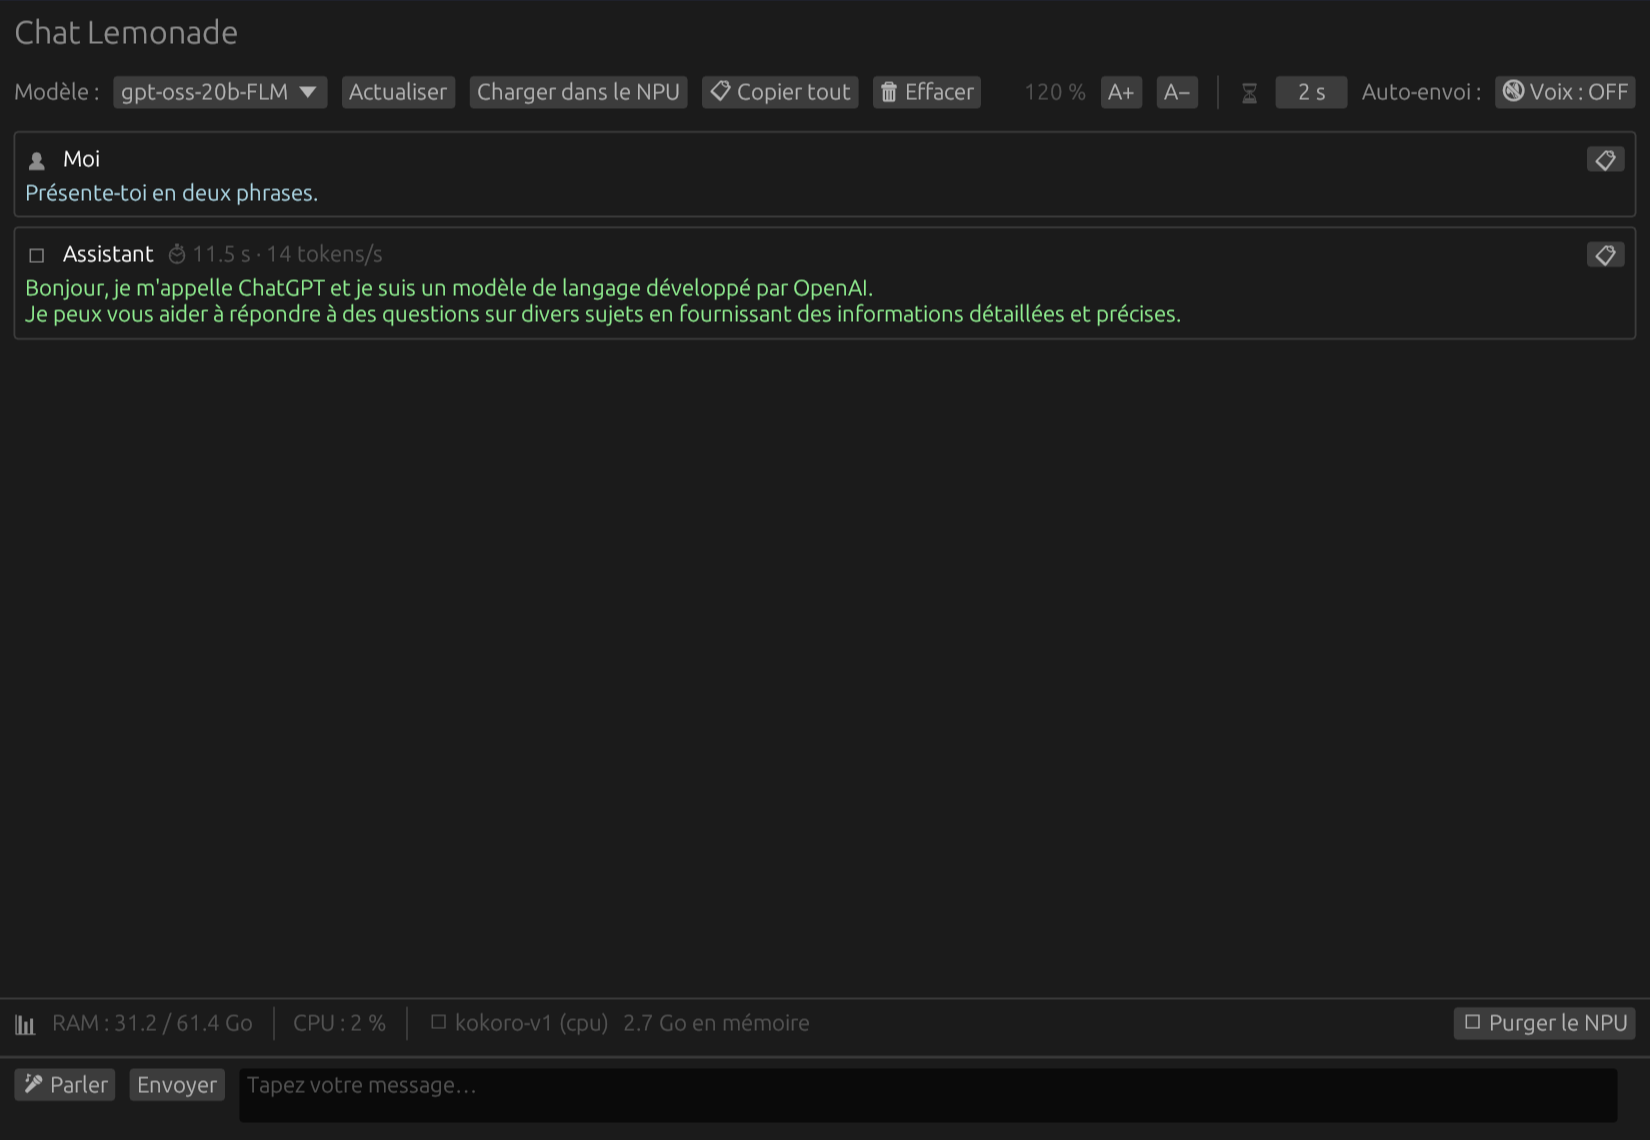
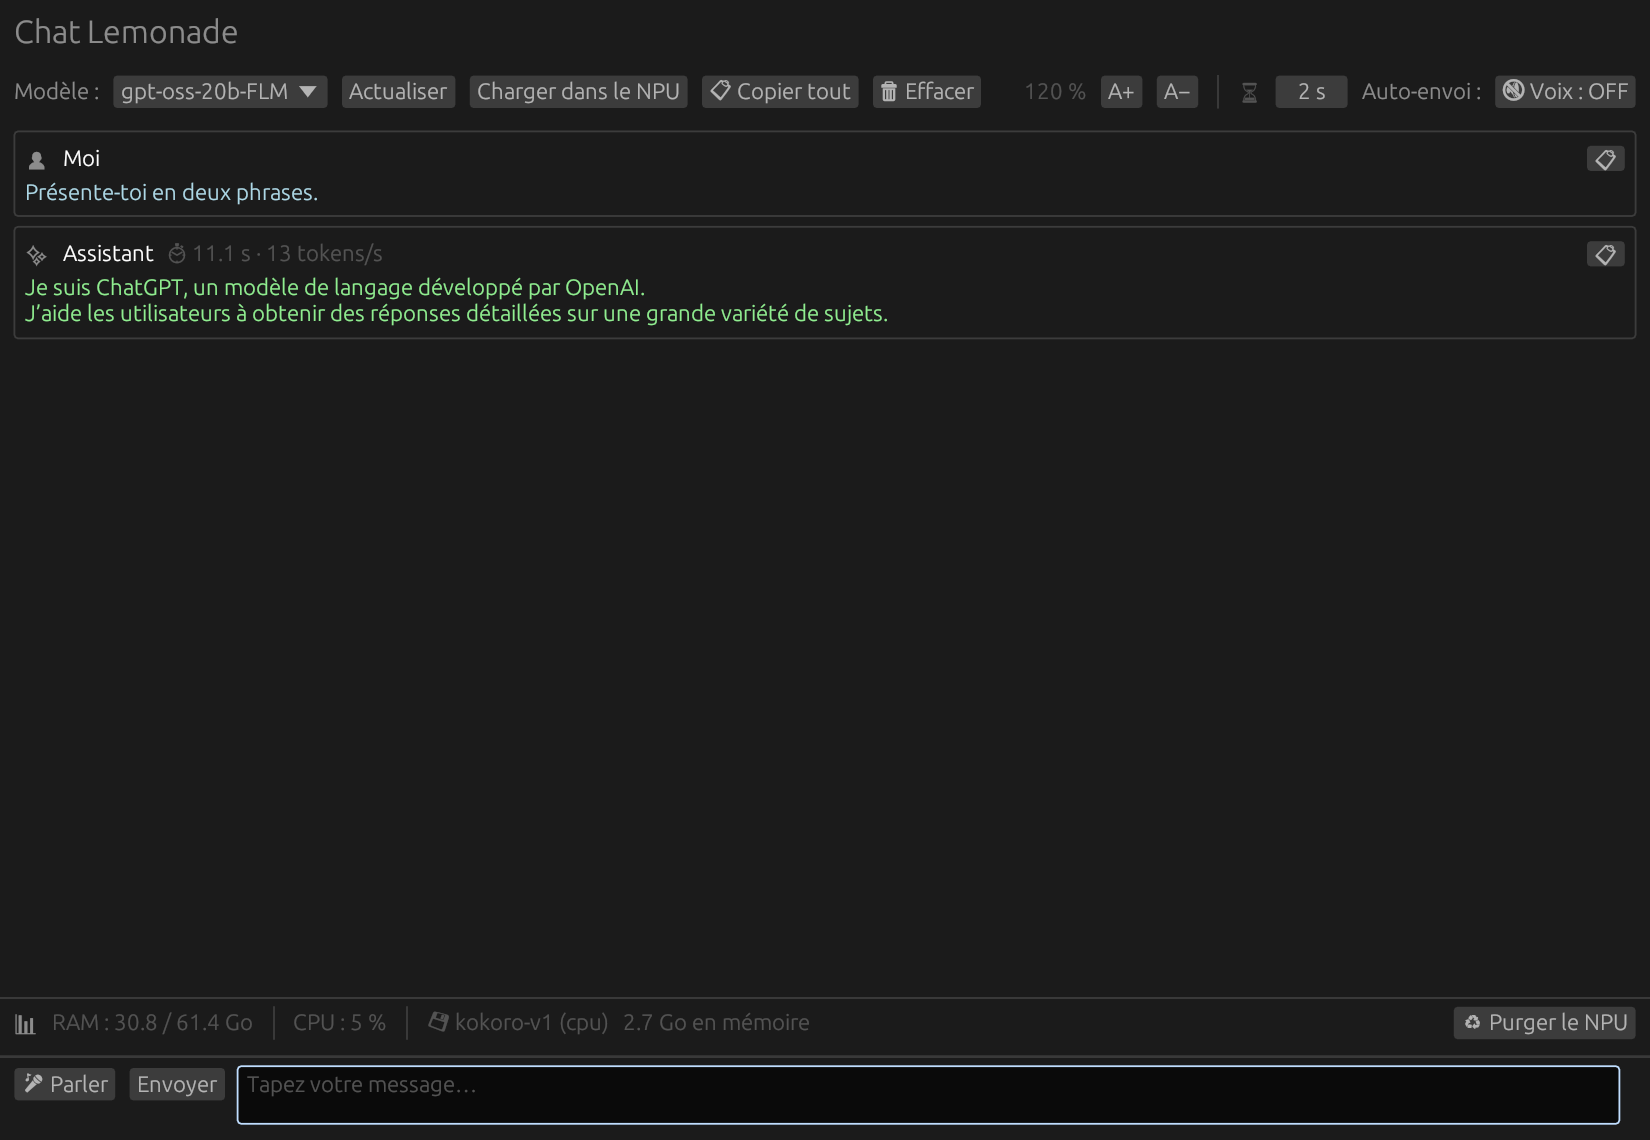
Icônes mieux couvertes par les polices (✨ 💾 ♻)
🤖 🧠 🧹 s'affichaient en carré vide avec la police emoji d'egui ;
remplacés par des glyphes Unicode anciens et universellement couverts.

diff --git a/src/main.rs b/src/main.rs
@@ -767,7 +767,7 @@ impl ChatApp {
         messages
             .iter()
             .map(|m| {
-                let who = if m.role == "user" { "👤 Moi" } else { "🤖 Assistant" };
+                let who = if m.role == "user" { "👤 Moi" } else { "✨ Assistant" };
                 format!("{who} :\n{}\n", m.content)
             })
             .collect::<Vec<_>>()
@@ -1085,7 +1085,7 @@ impl eframe::App for ChatApp {
                 ui.separator();
                 match &self.loaded_model_info {
                     Some(m) => {
-                        ui.weak(format!("🧠 {} ({})", m.model_name, m.device));
+                        ui.weak(format!("💾 {} ({})", m.model_name, m.device));
                         if let Some(rss) = m.rss_gb {
                             ui.weak(format!("{rss:.1} Go en mémoire"));
                         } else if let Some(size) = self.loaded_model_size_gb() {
@@ -1105,7 +1105,7 @@ impl eframe::App for ChatApp {
                     }
                     let purge = ui.add_enabled(
                         self.loaded_model_info.is_some() && !self.purge_in_progress,
-                        egui::Button::new("🧹 Purger le NPU"),
+                        egui::Button::new("♻ Purger le NPU"),
                     );
                     if purge.clicked() {
                         self.purge_npu();
@@ -1257,7 +1257,7 @@ impl eframe::App for ChatApp {
                     let (icon, color, name) = if msg.role == "user" {
                         ("👤", egui::Color32::LIGHT_BLUE, "Moi")
                     } else {
-                        ("🤖", egui::Color32::LIGHT_GREEN, "Assistant")
+                        ("✨", egui::Color32::LIGHT_GREEN, "Assistant")
                     };
 
                     // Bulle pleine largeur : le texte est dans un layout
